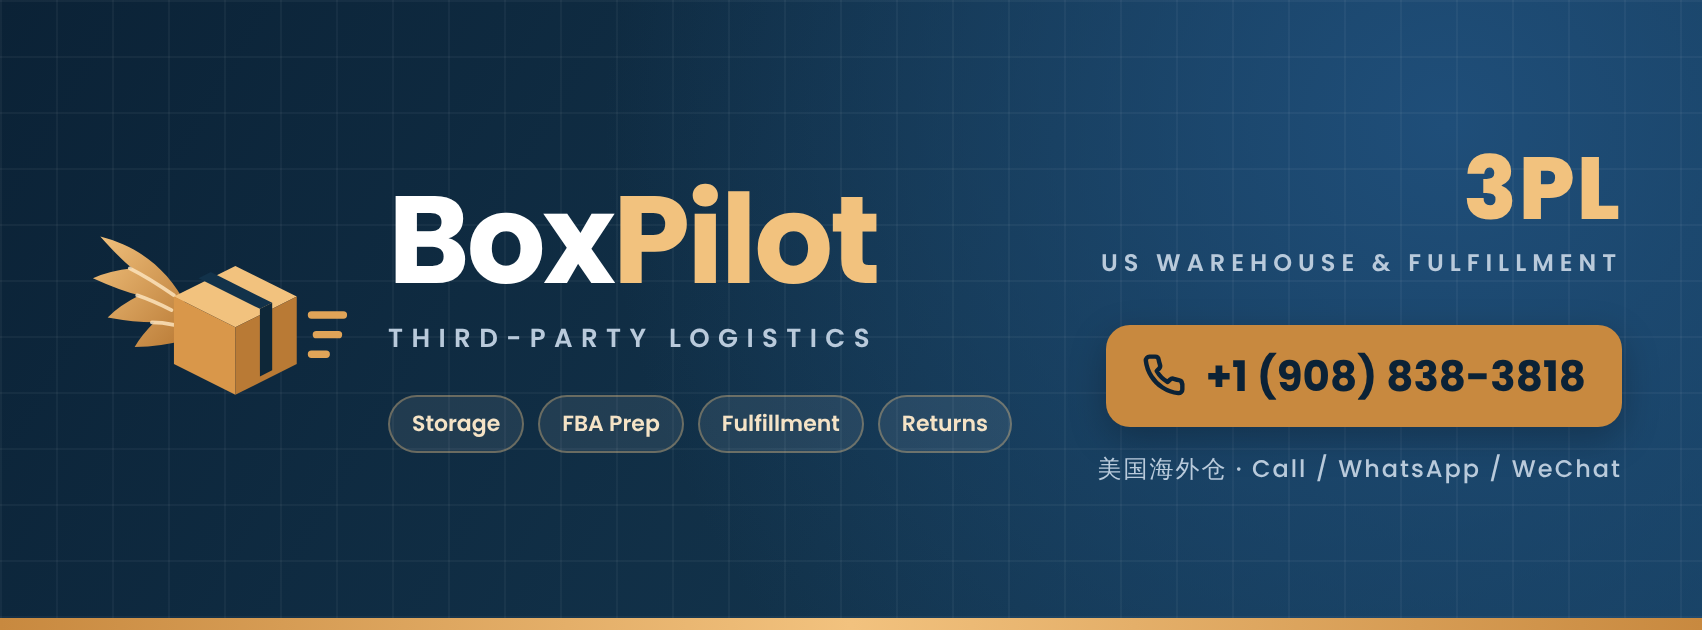
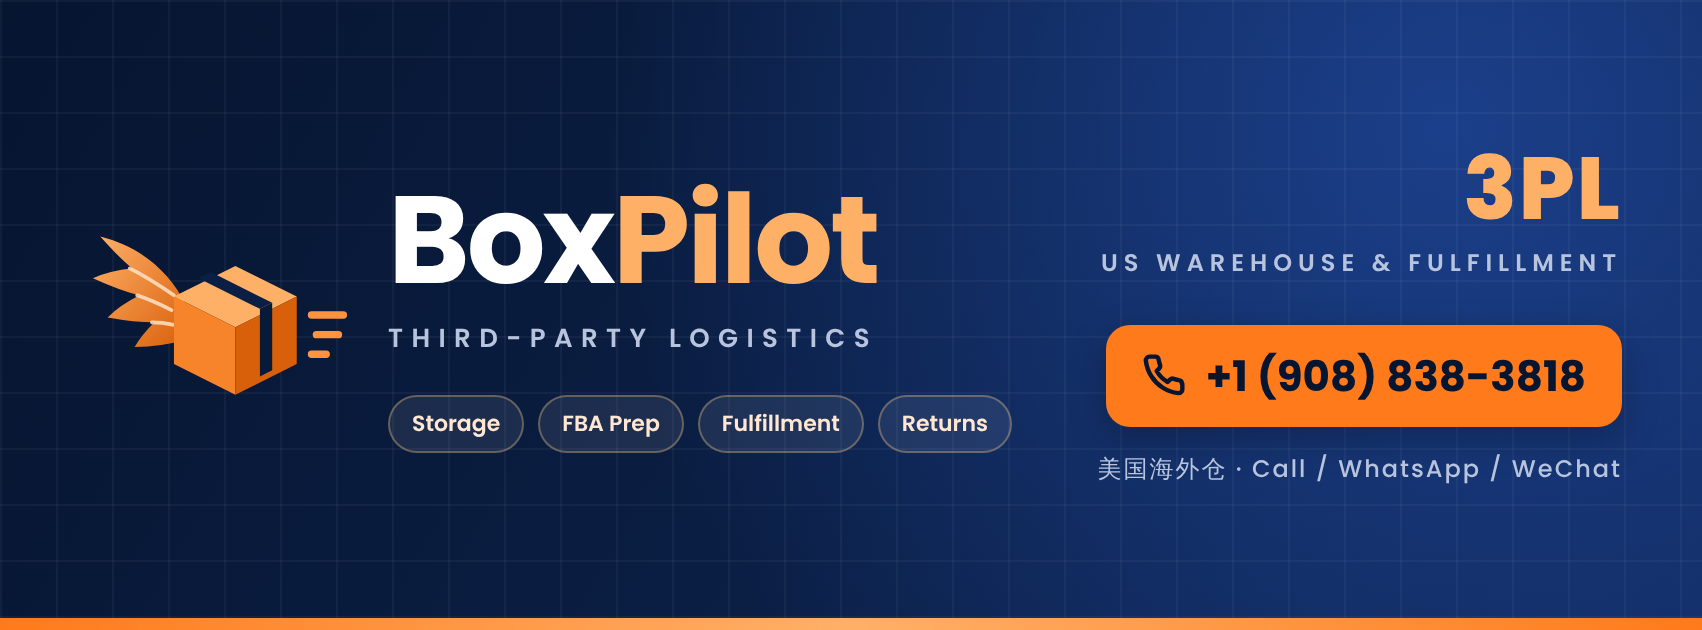
Make navy and orange the main BoxPilot theme; add profile picture
Claude-Session: https://claude.ai/code/session_01DzuCg193Bi7CfXn4KdKCej

diff --git a/boxpilot-brand/banner.html b/boxpilot-brand/banner.html
@@ -1,38 +1,38 @@
 <!doctype html><html><head><meta charset="utf-8"><link href="https://fonts.googleapis.com/css2?family=Poppins:wght@500;600;700;800&display=block" rel="stylesheet"><style>
 html,body{margin:0}body{width:851px;height:315px;overflow:hidden;font-family:Poppins,sans-serif;color:#fff;
-background:radial-gradient(circle at 85% 20%,#1F4E79 0,transparent 55%),linear-gradient(120deg,#0B2236 0%,#12324A 55%,#163E5E 100%);position:relative}
+background:radial-gradient(circle at 85% 20%,#1B3F8A 0,transparent 55%),linear-gradient(120deg,#061530 0%,#0B1F45 55%,#10295C 100%);position:relative}
 .grid{position:absolute;inset:0;background-image:linear-gradient(rgba(255,255,255,.04) 1px,transparent 1px),linear-gradient(90deg,rgba(255,255,255,.04) 1px,transparent 1px);background-size:28px 28px}
-.stripe{position:absolute;left:0;bottom:0;width:100%;height:6px;background:linear-gradient(90deg,#C8893F,#F2C27E,#C8893F)}
+.stripe{position:absolute;left:0;bottom:0;width:100%;height:6px;background:linear-gradient(90deg,#FF7A1A,#FFB067,#FF7A1A)}
 .l{position:absolute;left:44px;top:50%;transform:translateY(-50%);display:flex;align-items:center;gap:18px}
 .name{font-size:62px;font-weight:700;letter-spacing:-1.5px;line-height:1}
-.name span{color:#F2C27E}
-.tag{font-size:13px;font-weight:600;letter-spacing:4.2px;color:#B9CADB;margin-top:8px}
+.name span{color:#FFB067}
+.tag{font-size:13px;font-weight:600;letter-spacing:4.2px;color:#B8C4DE;margin-top:8px}
 .svc{margin-top:18px;display:flex;gap:7px;flex-wrap:wrap;max-width:400px}
-.svc b{font-size:11px;font-weight:600;padding:5px 11px;border-radius:20px;background:rgba(255,255,255,.08);border:1px solid rgba(242,194,126,.35);color:#F5E3C6}
+.svc b{font-size:11px;font-weight:600;padding:5px 11px;border-radius:20px;background:rgba(255,255,255,.08);border:1px solid rgba(242,194,126,.35);color:#FFE7D2}
 .r{position:absolute;right:40px;top:50%;transform:translateY(-50%);text-align:right}
-.big{font-size:44px;font-weight:800;line-height:1;color:#F2C27E;letter-spacing:1px}
-.sub{font-size:12px;font-weight:600;letter-spacing:3px;color:#B9CADB;margin:6px 0 22px}
-.cta{display:inline-flex;align-items:center;gap:10px;background:#C8893F;color:#0B2236;font-weight:700;font-size:21px;padding:10px 18px;border-radius:12px;box-shadow:0 6px 18px rgba(0,0,0,.25)}
-.cn{font-size:12px;color:#B9CADB;margin-top:12px;letter-spacing:1px}
+.big{font-size:44px;font-weight:800;line-height:1;color:#FFB067;letter-spacing:1px}
+.sub{font-size:12px;font-weight:600;letter-spacing:3px;color:#B8C4DE;margin:6px 0 22px}
+.cta{display:inline-flex;align-items:center;gap:10px;background:#FF7A1A;color:#061530;font-weight:700;font-size:21px;padding:10px 18px;border-radius:12px;box-shadow:0 6px 18px rgba(0,0,0,.25)}
+.cn{font-size:12px;color:#B8C4DE;margin-top:12px;letter-spacing:1px}
 </style></head><body><div class="grid"></div>
 <div class="l"><svg width="132" height="100" viewBox="-10 20 215 160"><g id="mark">
-  <defs><linearGradient id="wg" x1="0" y1="0" x2="1" y2="1"><stop offset="0" stop-color="#F2C27E"/><stop offset="1" stop-color="#B97A35"/></linearGradient></defs>
+  <defs><linearGradient id="wg" x1="0" y1="0" x2="1" y2="1"><stop offset="0" stop-color="#FFB067"/><stop offset="1" stop-color="#D9600B"/></linearGradient></defs>
   <!-- wing (one shape, scalloped feather tips) -->
   <path d="M70 92 C56 64 32 44 0 36 Q16 54 26 62 Q8 64 -6 70 Q16 80 32 84 Q16 92 6 102 Q28 106 44 106 Q34 116 28 126 Q50 126 70 120 Z" fill="url(#wg)"/>
-  <path d="M60 84 Q40 70 24 62 M58 96 Q42 88 30 84 M60 108 Q50 106 42 106" stroke="#FBE3BC" stroke-width="3" fill="none" stroke-linecap="round" opacity=".85"/>
+  <path d="M60 84 Q40 70 24 62 M58 96 Q42 88 30 84 M60 108 Q50 106 42 106" stroke="#FFE2C7" stroke-width="3" fill="none" stroke-linecap="round" opacity=".85"/>
   <!-- box -->
-  <path d="M110 60 L160 85 L110 110 L60 85 Z" fill="#F2C27E"/>
-  <path d="M60 85 L110 110 L110 165 L60 140 Z" fill="#D9974A"/>
-  <path d="M110 110 L160 85 L160 140 L110 165 Z" fill="#B97A35"/>
+  <path d="M110 60 L160 85 L110 110 L60 85 Z" fill="#FFB067"/>
+  <path d="M60 85 L110 110 L110 165 L60 140 Z" fill="#F7832A"/>
+  <path d="M110 110 L160 85 L160 140 L110 165 Z" fill="#D9600B"/>
   <!-- tape -->
-  <path d="M80 70 L90 65 L140 90 L130 95 Z" fill="#12324A"/>
-  <path d="M130 95 L140 90 L140 145 L130 150 Z" fill="#0E2738"/>
+  <path d="M80 70 L90 65 L140 90 L130 95 Z" fill="#0B1F45"/>
+  <path d="M130 95 L140 90 L140 145 L130 150 Z" fill="#081A3A"/>
   <!-- motion lines -->
-  <path d="M172 100 h26 M176 116 h18 M172 132 h12" stroke="#E0A458" stroke-width="6" stroke-linecap="round"/>
+  <path d="M172 100 h26 M176 116 h18 M172 132 h12" stroke="#FF9440" stroke-width="6" stroke-linecap="round"/>
 </g></svg>
 <div><div class="name">Box<span>Pilot</span></div><div class="tag">THIRD-PARTY LOGISTICS</div>
 <div class="svc"><b>Storage</b><b>FBA Prep</b><b>Fulfillment</b><b>Returns</b></div></div></div>
 <div class="r"><div class="big">3PL</div><div class="sub">US WAREHOUSE &amp; FULFILLMENT</div>
-<div class="cta"><svg width="22" height="22" viewBox="0 0 24 24" fill="none" stroke="#0B2236" stroke-width="2.4" stroke-linecap="round" stroke-linejoin="round"><path d="M22 16.9v3a2 2 0 0 1-2.2 2 19.8 19.8 0 0 1-8.6-3.1 19.5 19.5 0 0 1-6-6A19.8 19.8 0 0 1 2.1 4.2 2 2 0 0 1 4.1 2h3a2 2 0 0 1 2 1.7c.1.9.4 1.8.7 2.7a2 2 0 0 1-.5 2.1L8 9.8a16 16 0 0 0 6 6l1.3-1.3a2 2 0 0 1 2.1-.4c.9.3 1.8.6 2.7.7a2 2 0 0 1 1.7 2z"/></svg>+1 (908) 838-3818</div>
+<div class="cta"><svg width="22" height="22" viewBox="0 0 24 24" fill="none" stroke="#061530" stroke-width="2.4" stroke-linecap="round" stroke-linejoin="round"><path d="M22 16.9v3a2 2 0 0 1-2.2 2 19.8 19.8 0 0 1-8.6-3.1 19.5 19.5 0 0 1-6-6A19.8 19.8 0 0 1 2.1 4.2 2 2 0 0 1 4.1 2h3a2 2 0 0 1 2 1.7c.1.9.4 1.8.7 2.7a2 2 0 0 1-.5 2.1L8 9.8a16 16 0 0 0 6 6l1.3-1.3a2 2 0 0 1 2.1-.4c.9.3 1.8.6 2.7.7a2 2 0 0 1 1.7 2z"/></svg>+1 (908) 838-3818</div>
 <div class="cn">美国海外仓 · Call / WhatsApp / WeChat</div></div>
 <div class="stripe"></div></body></html>

diff --git a/boxpilot-brand/logo.html b/boxpilot-brand/logo.html
@@ -1,24 +1,24 @@
 <!doctype html><html><head><meta charset="utf-8"><link href="https://fonts.googleapis.com/css2?family=Poppins:wght@500;600;700;800&display=block" rel="stylesheet"><style>
-html,body{margin:0}body{width:1024px;height:1024px;background:#FBF7F0;display:flex;align-items:center;justify-content:center;font-family:Poppins,sans-serif}
+html,body{margin:0}body{width:1024px;height:1024px;background:#F7F8FB;display:flex;align-items:center;justify-content:center;font-family:Poppins,sans-serif}
 .wrap{display:flex;align-items:center;gap:28px}
-.name{font-size:120px;font-weight:700;letter-spacing:-3px;line-height:1;color:#12324A}
-.name span{color:#C8893F}
-.tag{margin-top:14px;font-size:24px;font-weight:600;letter-spacing:6.5px;color:#4A6072}
+.name{font-size:120px;font-weight:700;letter-spacing:-3px;line-height:1;color:#0B1F45}
+.name span{color:#FF7A1A}
+.tag{margin-top:14px;font-size:24px;font-weight:600;letter-spacing:6.5px;color:#4B5A75}
 </style></head><body><div class="wrap">
 <svg width="240" height="210" viewBox="-10 20 215 160"><g id="mark">
-  <defs><linearGradient id="wg" x1="0" y1="0" x2="1" y2="1"><stop offset="0" stop-color="#F2C27E"/><stop offset="1" stop-color="#B97A35"/></linearGradient></defs>
+  <defs><linearGradient id="wg" x1="0" y1="0" x2="1" y2="1"><stop offset="0" stop-color="#FFB067"/><stop offset="1" stop-color="#D9600B"/></linearGradient></defs>
   <!-- wing (one shape, scalloped feather tips) -->
   <path d="M70 92 C56 64 32 44 0 36 Q16 54 26 62 Q8 64 -6 70 Q16 80 32 84 Q16 92 6 102 Q28 106 44 106 Q34 116 28 126 Q50 126 70 120 Z" fill="url(#wg)"/>
-  <path d="M60 84 Q40 70 24 62 M58 96 Q42 88 30 84 M60 108 Q50 106 42 106" stroke="#FBE3BC" stroke-width="3" fill="none" stroke-linecap="round" opacity=".85"/>
+  <path d="M60 84 Q40 70 24 62 M58 96 Q42 88 30 84 M60 108 Q50 106 42 106" stroke="#FFE2C7" stroke-width="3" fill="none" stroke-linecap="round" opacity=".85"/>
   <!-- box -->
-  <path d="M110 60 L160 85 L110 110 L60 85 Z" fill="#F2C27E"/>
-  <path d="M60 85 L110 110 L110 165 L60 140 Z" fill="#D9974A"/>
-  <path d="M110 110 L160 85 L160 140 L110 165 Z" fill="#B97A35"/>
+  <path d="M110 60 L160 85 L110 110 L60 85 Z" fill="#FFB067"/>
+  <path d="M60 85 L110 110 L110 165 L60 140 Z" fill="#F7832A"/>
+  <path d="M110 110 L160 85 L160 140 L110 165 Z" fill="#D9600B"/>
   <!-- tape -->
-  <path d="M80 70 L90 65 L140 90 L130 95 Z" fill="#12324A"/>
-  <path d="M130 95 L140 90 L140 145 L130 150 Z" fill="#0E2738"/>
+  <path d="M80 70 L90 65 L140 90 L130 95 Z" fill="#0B1F45"/>
+  <path d="M130 95 L140 90 L140 145 L130 150 Z" fill="#081A3A"/>
   <!-- motion lines -->
-  <path d="M172 100 h26 M176 116 h18 M172 132 h12" stroke="#E0A458" stroke-width="6" stroke-linecap="round"/>
+  <path d="M172 100 h26 M176 116 h18 M172 132 h12" stroke="#FF9440" stroke-width="6" stroke-linecap="round"/>
 </g></svg>
 <div><div class="name">Box<span>Pilot</span></div><div class="tag">THIRD-PARTY LOGISTICS</div></div>
 </div></body></html>

diff --git a/boxpilot-brand/logo-transparent.html b/boxpilot-brand/logo-transparent.html
@@ -1,24 +1,24 @@
 <!doctype html><html><head><meta charset="utf-8"><link href="https://fonts.googleapis.com/css2?family=Poppins:wght@500;600;700;800&display=block" rel="stylesheet"><style>
 html,body{margin:0}body{width:1100px;height:300px;background:transparent;display:flex;align-items:center;justify-content:center;font-family:Poppins,sans-serif}
 .wrap{display:flex;align-items:center;gap:28px}
-.name{font-size:120px;font-weight:700;letter-spacing:-3px;line-height:1;color:#12324A}
-.name span{color:#C8893F}
-.tag{margin-top:14px;font-size:24px;font-weight:600;letter-spacing:6.5px;color:#4A6072}
+.name{font-size:120px;font-weight:700;letter-spacing:-3px;line-height:1;color:#0B1F45}
+.name span{color:#FF7A1A}
+.tag{margin-top:14px;font-size:24px;font-weight:600;letter-spacing:6.5px;color:#4B5A75}
 </style></head><body><div class="wrap">
 <svg width="240" height="210" viewBox="-10 20 215 160"><g id="mark">
-  <defs><linearGradient id="wg" x1="0" y1="0" x2="1" y2="1"><stop offset="0" stop-color="#F2C27E"/><stop offset="1" stop-color="#B97A35"/></linearGradient></defs>
+  <defs><linearGradient id="wg" x1="0" y1="0" x2="1" y2="1"><stop offset="0" stop-color="#FFB067"/><stop offset="1" stop-color="#D9600B"/></linearGradient></defs>
   <!-- wing (one shape, scalloped feather tips) -->
   <path d="M70 92 C56 64 32 44 0 36 Q16 54 26 62 Q8 64 -6 70 Q16 80 32 84 Q16 92 6 102 Q28 106 44 106 Q34 116 28 126 Q50 126 70 120 Z" fill="url(#wg)"/>
-  <path d="M60 84 Q40 70 24 62 M58 96 Q42 88 30 84 M60 108 Q50 106 42 106" stroke="#FBE3BC" stroke-width="3" fill="none" stroke-linecap="round" opacity=".85"/>
+  <path d="M60 84 Q40 70 24 62 M58 96 Q42 88 30 84 M60 108 Q50 106 42 106" stroke="#FFE2C7" stroke-width="3" fill="none" stroke-linecap="round" opacity=".85"/>
   <!-- box -->
-  <path d="M110 60 L160 85 L110 110 L60 85 Z" fill="#F2C27E"/>
-  <path d="M60 85 L110 110 L110 165 L60 140 Z" fill="#D9974A"/>
-  <path d="M110 110 L160 85 L160 140 L110 165 Z" fill="#B97A35"/>
+  <path d="M110 60 L160 85 L110 110 L60 85 Z" fill="#FFB067"/>
+  <path d="M60 85 L110 110 L110 165 L60 140 Z" fill="#F7832A"/>
+  <path d="M110 110 L160 85 L160 140 L110 165 Z" fill="#D9600B"/>
   <!-- tape -->
-  <path d="M80 70 L90 65 L140 90 L130 95 Z" fill="#12324A"/>
-  <path d="M130 95 L140 90 L140 145 L130 150 Z" fill="#0E2738"/>
+  <path d="M80 70 L90 65 L140 90 L130 95 Z" fill="#0B1F45"/>
+  <path d="M130 95 L140 90 L140 145 L130 150 Z" fill="#081A3A"/>
   <!-- motion lines -->
-  <path d="M172 100 h26 M176 116 h18 M172 132 h12" stroke="#E0A458" stroke-width="6" stroke-linecap="round"/>
+  <path d="M172 100 h26 M176 116 h18 M172 132 h12" stroke="#FF9440" stroke-width="6" stroke-linecap="round"/>
 </g></svg>
 <div><div class="name">Box<span>Pilot</span></div><div class="tag">THIRD-PARTY LOGISTICS</div></div>
 </div></body></html>

diff --git a/boxpilot-brand/profile.html b/boxpilot-brand/profile.html
@@ -1,0 +1,20 @@
+<!doctype html><html><head><meta charset="utf-8"><link href="https://fonts.googleapis.com/css2?family=Poppins:wght@700&display=block" rel="stylesheet"><style>
+html,body{margin:0}body{width:800px;height:800px;display:flex;flex-direction:column;align-items:center;justify-content:center;font-family:Poppins,sans-serif;
+background:radial-gradient(circle at 70% 25%,#1B3F8A 0,transparent 60%),linear-gradient(135deg,#061530,#0B1F45 60%,#10295C)}
+.n{font-size:92px;font-weight:700;letter-spacing:-2px;color:#fff;line-height:1;margin-top:10px}.n span{color:#FF7A1A}
+.t{font-size:22px;letter-spacing:7px;color:#B8C4DE;margin-top:14px;font-weight:700}
+</style></head><body><svg width="400" height="300" viewBox="-10 20 215 160" style="overflow:visible;flex-shrink:0"><svg width="240" height="210" viewBox="-10 20 215 160"><g id="mark">
+  <defs><linearGradient id="wg" x1="0" y1="0" x2="1" y2="1"><stop offset="0" stop-color="#FFB067"/><stop offset="1" stop-color="#D9600B"/></linearGradient></defs>
+  <!-- wing (one shape, scalloped feather tips) -->
+  <path d="M70 92 C56 64 32 44 0 36 Q16 54 26 62 Q8 64 -6 70 Q16 80 32 84 Q16 92 6 102 Q28 106 44 106 Q34 116 28 126 Q50 126 70 120 Z" fill="url(#wg)"/>
+  <path d="M60 84 Q40 70 24 62 M58 96 Q42 88 30 84 M60 108 Q50 106 42 106" stroke="#FFE2C7" stroke-width="3" fill="none" stroke-linecap="round" opacity=".85"/>
+  <!-- box -->
+  <path d="M110 60 L160 85 L110 110 L60 85 Z" fill="#FFB067"/>
+  <path d="M60 85 L110 110 L110 165 L60 140 Z" fill="#F7832A"/>
+  <path d="M110 110 L160 85 L160 140 L110 165 Z" fill="#D9600B"/>
+  <!-- tape -->
+  <path d="M80 70 L90 65 L140 90 L130 95 Z" fill="#0B1F45"/>
+  <path d="M130 95 L140 90 L140 145 L130 150 Z" fill="#081A3A"/>
+  <!-- motion lines -->
+  <path d="M172 100 h26 M176 116 h18 M172 132 h12" stroke="#FF9440" stroke-width="6" stroke-linecap="round"/>
+</g></svg></svg><div class="n">Box<span>Pilot</span></div><div class="t">3PL · LOGISTICS</div></body></html>

diff --git a/boxpilot-brand/render.js b/boxpilot-brand/render.js
@@ -1,4 +1,4 @@
 const {chromium}=require('playwright');(async()=>{const b=await chromium.launch();
-for(const [f,w,h,o] of [['logo',1024,1024,'boxpilot-logo'],['banner',851,315,'boxpilot-banner'],['logo-transparent',1100,300,'boxpilot-logo-transparent']]){const p=await b.newPage({viewport:{width:w,height:h},deviceScaleFactor:2});
-await p.goto('file://'+__dirname+'/'+f+'.html');await p.evaluate(()=>document.fonts.ready);await p.waitForTimeout(500);await p.screenshot({path:__dirname+'/'+o+'.png',omitBackground:true});}
+for(const [f,w,h] of [['logo',1024,1024],['banner',851,315],['logo-transparent',1100,300],['profile',800,800]]){const p=await b.newPage({viewport:{width:w,height:h},deviceScaleFactor:2});
+await p.goto('file://'+__dirname+'/'+f+'.html');await p.evaluate(()=>document.fonts.ready);await p.waitForTimeout(400);await p.screenshot({path:__dirname+'/boxpilot-'+f+'.png',omitBackground:true});await p.close();}
 await b.close();})();
